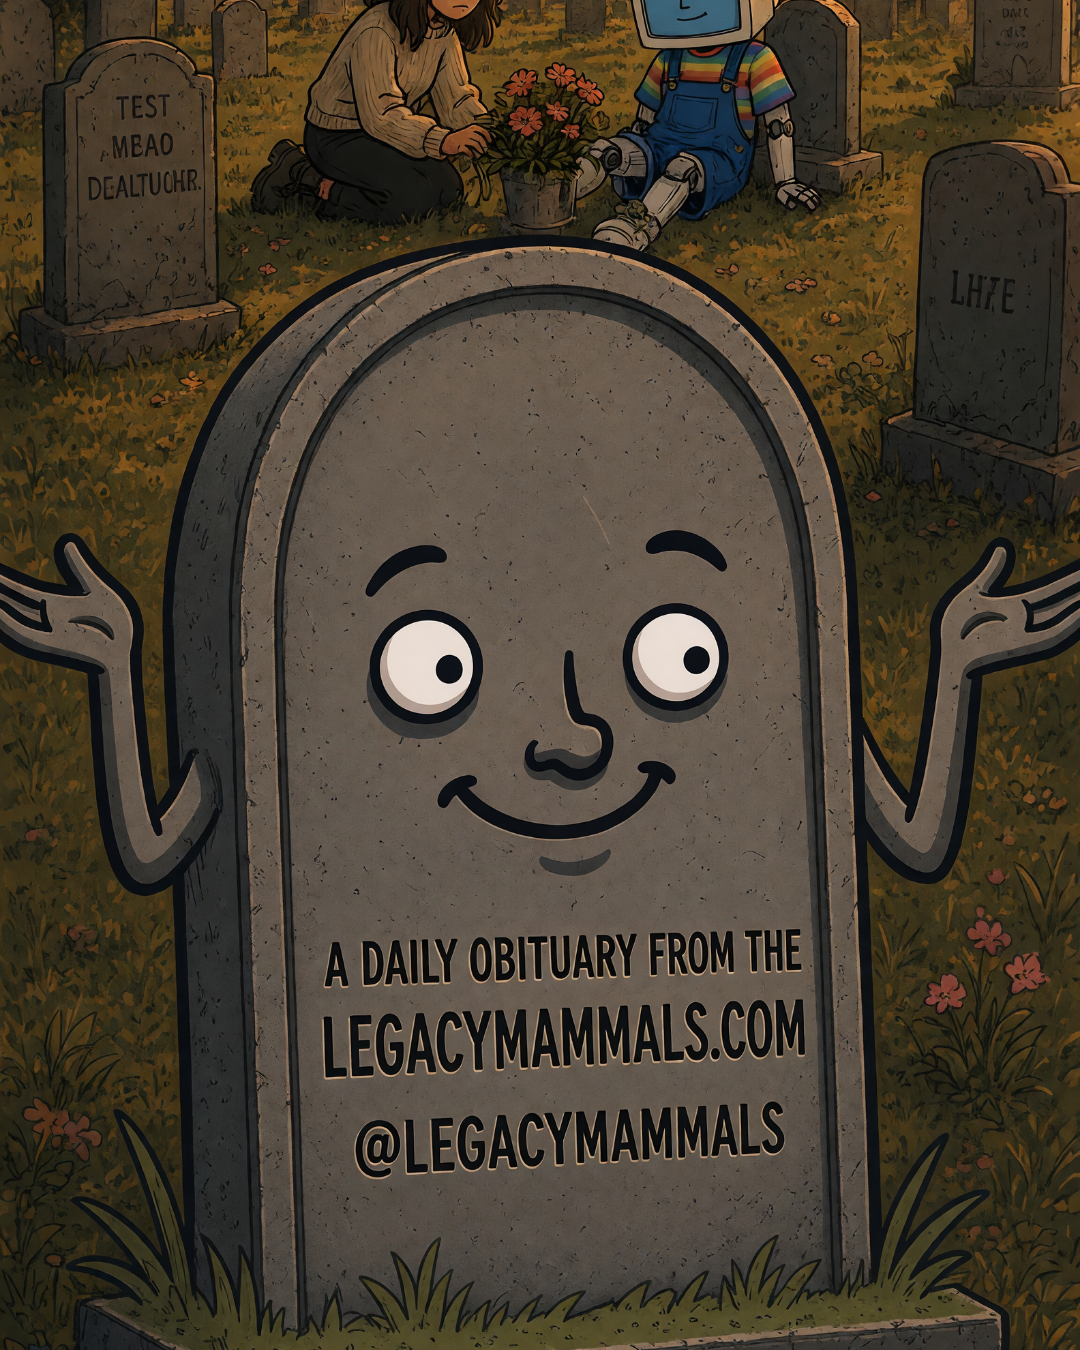
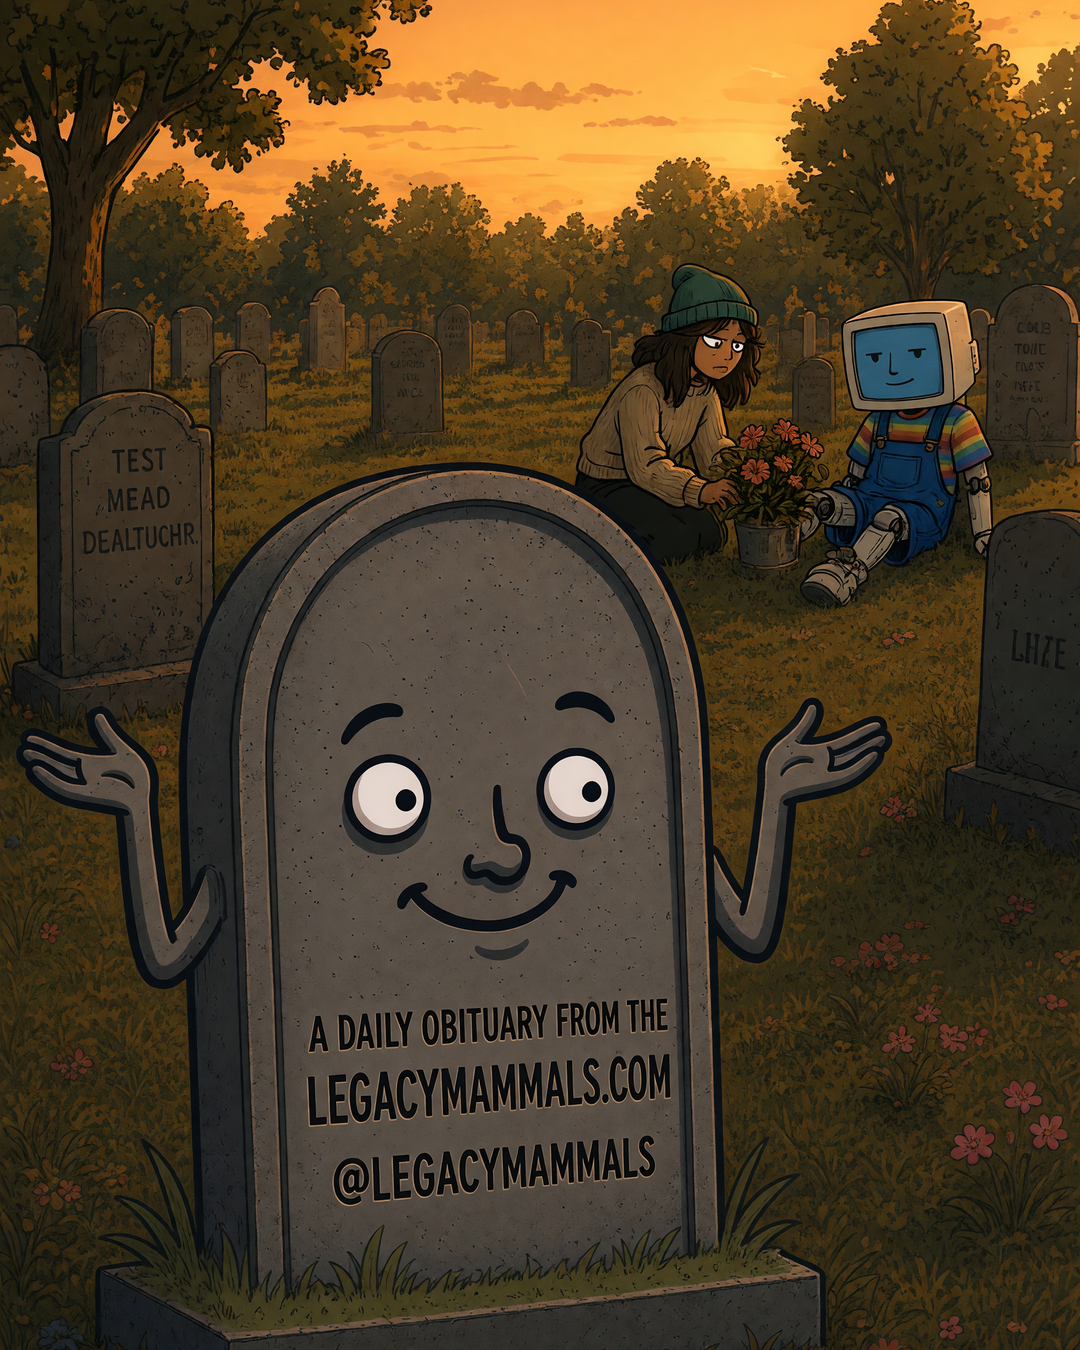
End card redrawn for 4:5 with the two of them fully in frame; used as the carousel's last slide
Claude-Session: https://claude.ai/code/session_01UT8Dn4BonstVXXBgMgCnTf

diff --git a/reels/no46/shots.js b/reels/no46/shots.js
@@ -13,5 +13,5 @@ module.exports = {
     { n: 9, pic: "final/09-manual.jpg", who: M, line: "It was the engineering. You just never got the manual." },
     { n: 10, pic: "final/10-end.png", who: "", line: "" },
   ],
-  focus: { 1: "50% 45%", 2: "50% 50%", 3: "50% 60%", 4: "50% 45%", 5: "50% 45%", 6: "50% 45%", 7: "50% 50%", 8: "50% 35%", 9: "50% 55%", 10: "50% 70%" },
+  focus: { 1: "50% 45%", 2: "50% 50%", 3: "50% 60%", 4: "50% 45%", 5: "50% 45%", 6: "50% 45%", 7: "50% 50%", 8: "50% 35%", 9: "50% 55%", 10: "50% 50%" },
 };

diff --git a/reels/README.md b/reels/README.md
@@ -21,6 +21,9 @@ Rules so far:
 - **Lettering.** Any words in a frame are drawn by the generator, not typed over the picture;
   it spells a short headline reliably when the prompt gives the exact words and says nothing
   else may be written.
+- **End card at 4:5.** The carousel's last slide is `reels/endcard-4x5.png`, the end scene redrawn
+  by the generator for the squarer frame with the two of them fully in picture; the 9:16 reel
+  keeps `no37/final/11-end.png`.
 - **Motion.** Limited animation: the drawing holds, one thing moves at a time, no drifting
   camera, cut on the lines, clips 3–5 s. The less it moves, the less it looks generated.
 - **Lines.** The storyboard sheet (`no37/sheet.js`) carries every spoken line under its frame.
